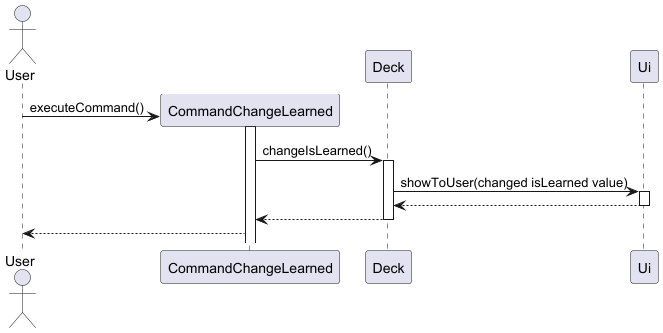
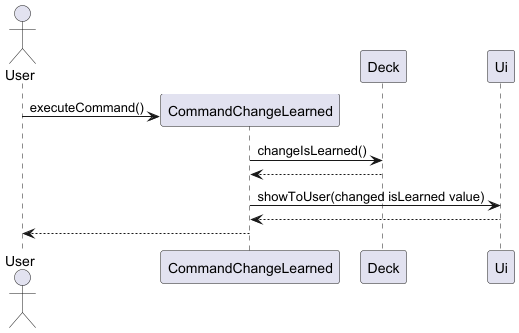
Updated DG except quiz portion

diff --git a/docs/DeveloperGuide.md b/docs/DeveloperGuide.md
@@ -10,8 +10,10 @@
         - [3.1.1. Create a flashcard](#311-create-a-flashcard)
         - [3.1.2. Edit a flashcard](#312-edit-a-flashcard)
         - [3.1.3. Delete a flashcard](#313-delete-a-flashcard)
-        - [3.1.4. View a flashcard answer](#314-view-a-flashcard-answer)
-        - [3.1.5. Insert code snippet in a flashcard](#315-insert-code-snippet-in-a-flashcard)
+        - [3.1.4. View a flashcard question](#314-view-a-flashcard-question)
+        - [3.1.5. View a flashcard question](#315-view-a-flashcard-answer)
+        - [3.1.6. Insert code snippet in a flashcard](#316-insert-code-snippet-in-a-flashcard)
+        - [3.1.7. List flashcards' questions](#317-list-flashcard-questions)
     - [3.2. Deck Features](#32-deck-features)
         - [3.2.1. Creating a new deck](#321-creating-a-new-deck)
         - [3.2.2. Renaming decks](#322-renaming-decks)
@@ -167,7 +169,33 @@ The delete flashcard feature allows users to remove a specific flashcard from th
 - Invalid input format (e.g., not an integer) → `NumberFormatException`
 - Index out of bounds → `ArrayIndexOutOfBoundsException`
 
-### 3.1.4. View a flashcard answer
+### 3.1.4. View a flashcard question
+
+#### Design 
+
+This feature enables the user to view the question to a specific flashcard by supplying its index. It assumes the user has already selected a deck.
+
+#### Class Diagram
+
+![](images/ViewQuestionClassDiagram.png)
+
+#### Sequence Diagram
+
+![](images/ViewQuestionSequenceDiagram.png)
+
+#### Implementation
+
+`viewFlashcardQuestion`
+- Fetches the question from the target flashcard with its index, as well as its isLearned value.
+- Returns the question as a String.
+
+**Edge cases handled:**
+- If index for flashcard to be viewed is not a number → throws `NumberFormatException`
+- If index for flashcard is outside of deck size. (lower or equals to 0, and more than the size of the deck) → throws `FlashCliArgumentException`
+- If no index is inputted → throws `FlashCLIArgumentException`
+
+
+### 3.1.5. View a flashcard answer
 
 #### Design
 
@@ -193,7 +221,7 @@ This feature enables the user to view the answer to a specific flashcard by supp
 - Validates that it's a valid number and within bounds
 - Retrieves and displays the answer
 
-### 3.1.5. Insert code snippet in a flashcard
+### 3.1.6. Insert code snippet in a flashcard
 
 #### Design
 
@@ -219,6 +247,58 @@ This feature enables the user to insert a code snippet to a specific flashcard b
 **Edge Cases Handled:**
 - Invalid index format → `NumberFormatException`
 - Out-of-bounds index → `ArrayIndexOutOfBoundsException`
+
+### 3.1.7 List Flashcard Questions
+
+Allows the user to list out all the flashcard questions in the current deck. It assumes that the user is currently in a deck.
+
+#### Design
+
+Iterates through the deck, and prints out the question for each flashcard.
+
+#### Class Diagram
+
+![](images/ListClassDiagram.png)
+
+#### Sequence Diagram
+![](images/ListSequenceDiagram.png)
+
+#### Implementation
+`listFlashcards`
+- appends to a string with the index of the question, the isLearned value of the flashcard(as "[ ]" if unlearned and "[X]" if learned) and the flashcard's question, for each flashcard. A "\n" is further written to separate the flashcards.
+- returns aforementioned string
+
+**Edge cases handled:**
+- If the deck is empty → throws `EmptyListException`
+
+**Improvements made**
+- Added isLearned value into the list, to help users find out the isLearned status of all their flashcards at a glance. 
+
+### 3.1.8 Mark learned/ Mark unlearned method
+
+#### Design
+
+Allows the user to mark the flashcard as learned or unlearned, by supplying the index of the flashcard they wish to change. It assumes that the user has already selected a deck.
+
+#### Class Diagram
+
+![](images/ChangeIsLearnedClassDiagram.png)
+
+#### Sequence Diagram
+
+![](images/ChangeIsLearnedSequenceDiagram.png)
+
+#### Implementation
+
+`changeIsLearned`
+- changes the isLearned value of target flashcard.
+- returns a string of whether it is now learned or unlearned.
+
+**Edge Cases Handled:**
+- If index for flashcard to be changed is not a number → throws `NumberFormatException`
+- If index for flashcard is outside of deck size. (lower or equals to 0, and more than the size of the deck) → throws `FlashCliArgumentException`
+- If no index is inputted → throws `FlashCLIArgumentException`
+- If flashcard is already in the state that the user wants to mark it to, ie: the user wants to mark "learned" to an already learned flashcard → throws `FlashCLIArgumentException`
 
 ### 3.2. Deck features
 ### 3.2.1. Creating a New Deck
